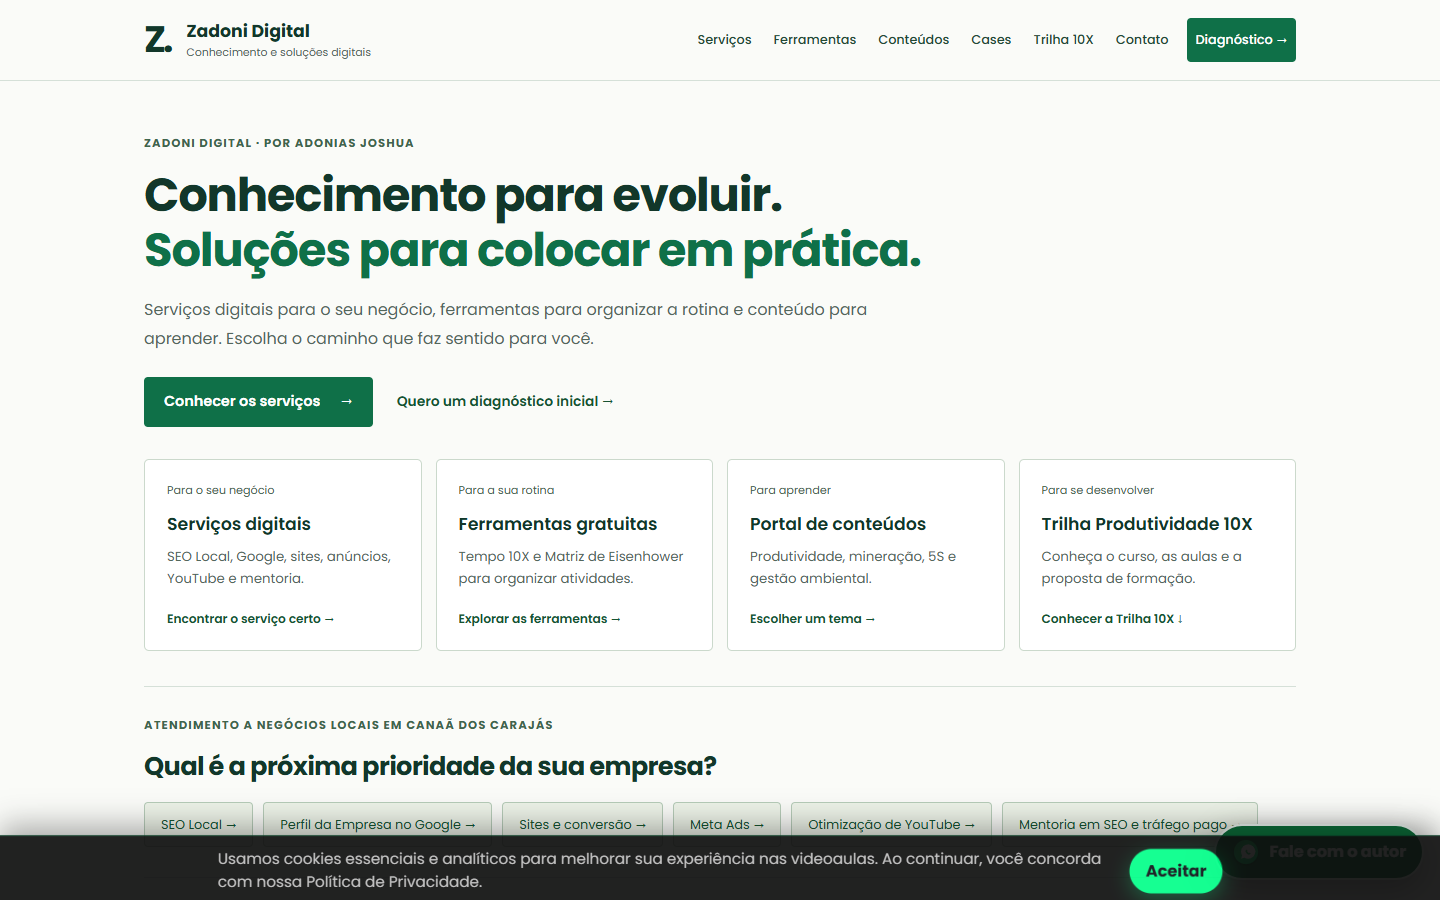
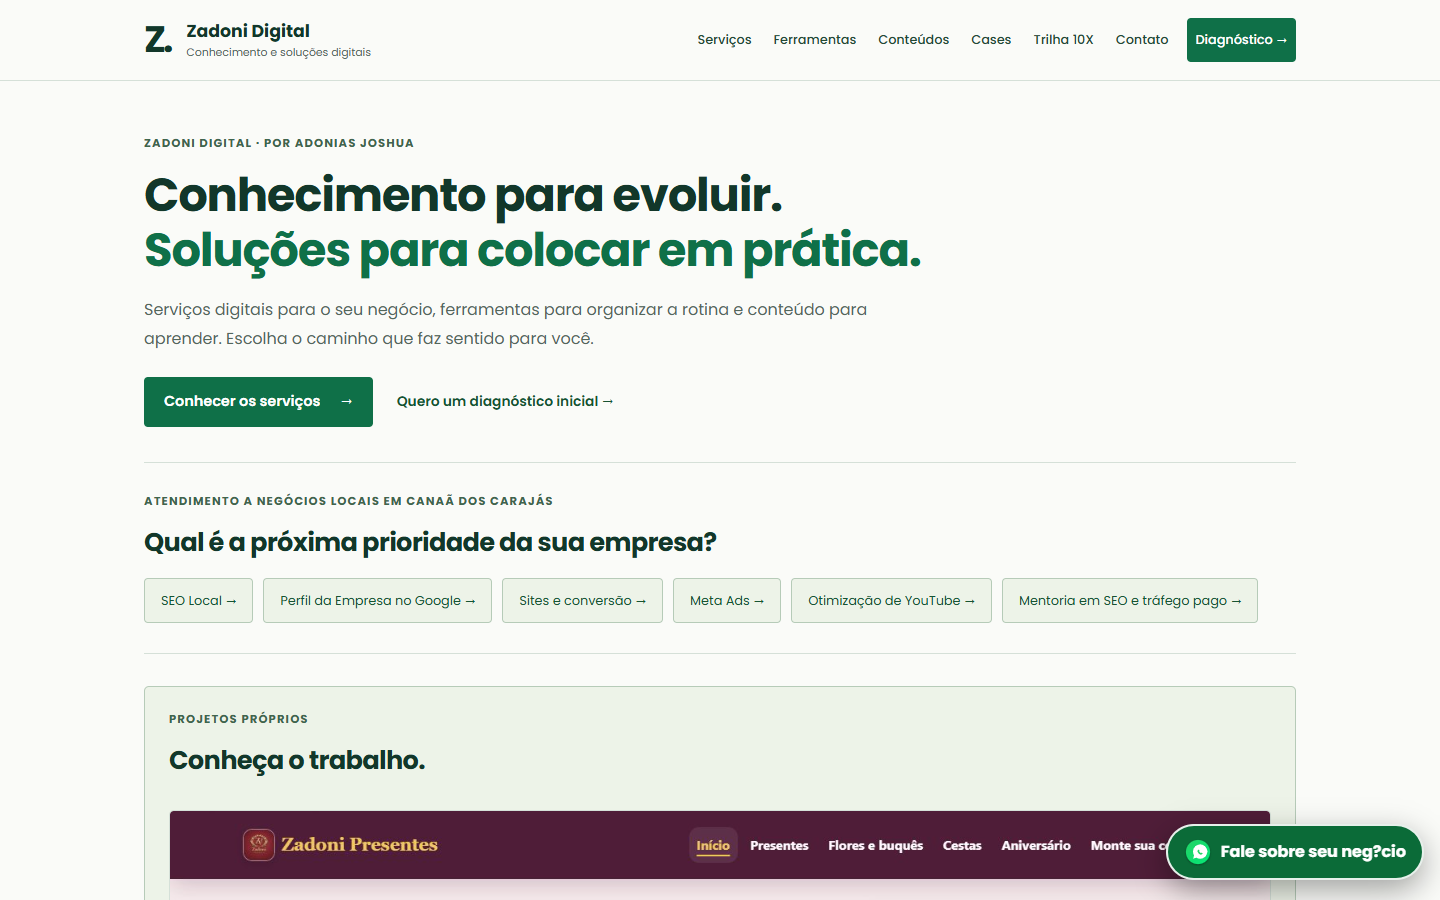
feat: prioritize local marketing conversion on home

diff --git a/index.html b/index.html
@@ -30,7 +30,7 @@
 
     <!-- Styles -->
     <link rel="stylesheet" href="./style.css" />
-    <link rel="stylesheet" href="./assets/css/home-portal.css" />
+    <link rel="stylesheet" href="./assets/css/home-portal.css?v=20260923-local" />
     <script src="./assets/js/home-portal.js" defer></script>
 
     <!-- Preload critical images for LCP (hero bg and logo) -->
@@ -75,20 +75,21 @@
             <p class="home-lead">Serviços digitais para o seu negócio, ferramentas para organizar a rotina e conteúdo para aprender. Escolha o caminho que faz sentido para você.</p>
             <div class="home-primary-actions"><a class="home-action" href="./servicos-digitais/">Conhecer os serviços <span aria-hidden="true">→</span></a><a class="home-text-link" href="./diagnostico-presenca-digital/">Quero um diagnóstico inicial →</a></div>
           </div>
-          <nav class="home-paths" aria-label="Escolha o que procura">
-            <a class="home-path" href="./servicos-digitais/"><span class="home-path-label">Para o seu negócio</span><h3>Serviços digitais</h3><p>SEO Local, Google, sites, anúncios, YouTube e mentoria.</p><span class="home-path-link">Encontrar o serviço certo →</span></a>
-            <a class="home-path" href="./ferramentas/"><span class="home-path-label">Para a sua rotina</span><h3>Ferramentas gratuitas</h3><p>Tempo 10X e Matriz de Eisenhower para organizar atividades.</p><span class="home-path-link">Explorar as ferramentas →</span></a>
-            <a class="home-path" href="./portal/"><span class="home-path-label">Para aprender</span><h3>Portal de conteúdos</h3><p>Produtividade, mineração, 5S e gestão ambiental.</p><span class="home-path-link">Escolher um tema →</span></a>
-            <a class="home-path" href="#hero"><span class="home-path-label">Para se desenvolver</span><h3>Trilha Produtividade 10X</h3><p>Conheça o curso, as aulas e a proposta de formação.</p><span class="home-path-link">Conhecer a Trilha 10X ↓</span></a>
-          </nav>
           <section class="home-service-access" aria-labelledby="home-services-title"><div><p class="home-eyebrow">Atendimento a negócios locais em Canaã dos Carajás</p><h2 id="home-services-title">Qual é a próxima prioridade da sua empresa?</h2></div><div class="home-service-links"><a href="./seo-local-canaa-dos-carajas/">SEO Local →</a><a href="./otimizacao-google-meu-negocio-canaa/">Perfil da Empresa no Google →</a><a href="./servicos-digitais/#sites">Sites e conversão →</a><a href="./meta-ads-negocios-locais-canaa/">Meta Ads →</a><a href="./otimizacao-canal-youtube/">Otimização de YouTube →</a><a href="./mentoria-seo-trafego-pago/">Mentoria em SEO e tráfego pago →</a></div></section>
+            <section class="home-feature" id="home-cases" aria-labelledby="home-cases-title"><p class="home-eyebrow">Projetos próprios</p><h2 id="home-cases-title">Conheça o trabalho.</h2><a class="home-case-link" href="./cases/zadoni-presentes/"><img src="./assets/images/zadoni-presentes-site.jpg" width="1360" height="840" loading="lazy" decoding="async" alt="Site da Zadoni Presentes: loja, produtos e categorias"><span><strong>Zadoni Presentes</strong><small>Site e presença digital de um negócio local.</small></span><span aria-hidden="true">→</span></a><a href="./cases/zadoni-digital/"><span><strong>Portal Zadoni Digital</strong><small>Conteúdo, ferramentas web e SEO.</small></span><span aria-hidden="true">→</span></a></section>
+          <p class="home-commercial-help">N?o sabe por onde come?ar? <a class="home-text-link" href="./diagnostico-presenca-digital/">Fa?a o diagn?stico inicial ?</a></p>
           <section class="home-author" aria-labelledby="home-author-title">
             <img src="./assets/images/adonias-joshua-apresentacao.jpeg" width="1086" height="1448" loading="lazy" decoding="async" alt="Adonias Joshua em ambiente de trabalho, usando colete de segurança" />
             <div><p class="home-eyebrow">Quem está por trás dos projetos</p><h2 id="home-author-title">Adonias Joshua</h2><p>Experiência de campo e desenvolvimento digital conectados em projetos próprios, ferramentas e conteúdo. Sou o criador da Zadoni Digital e responsável pelos trabalhos apresentados neste portal.</p><p>Minha trajetória em mineração, construção e meio ambiente faz parte da base dos conteúdos de produtividade, 5S e gestão ambiental.</p><div class="home-primary-actions"><a class="home-text-link" href="./sobre/">Conheça minha trajetória →</a><a class="home-text-link" href="./servicos-digitais/#contato">Conversar sobre seu projeto →</a></div></div>
           </section>
+          <section class="home-knowledge" aria-labelledby="home-knowledge-title"><p class="home-eyebrow">Conhecimento para aplicar</p><h2 id="home-knowledge-title">Aprenda, organize sua rotina e desenvolva suas habilidades.</h2><p>Explore os guias de produtividade, 5S, minera??o e meio ambiente, use as ferramentas e conhe?a a Trilha 10X.</p>          <nav class="home-paths" aria-label="Escolha o que procura">
+            <a class="home-path" href="./servicos-digitais/"><span class="home-path-label">Para o seu negócio</span><h3>Serviços digitais</h3><p>SEO Local, Google, sites, anúncios, YouTube e mentoria.</p><span class="home-path-link">Encontrar o serviço certo →</span></a>
+            <a class="home-path" href="./ferramentas/"><span class="home-path-label">Para a sua rotina</span><h3>Ferramentas gratuitas</h3><p>Tempo 10X e Matriz de Eisenhower para organizar atividades.</p><span class="home-path-link">Explorar as ferramentas →</span></a>
+            <a class="home-path" href="./portal/"><span class="home-path-label">Para aprender</span><h3>Portal de conteúdos</h3><p>Produtividade, mineração, 5S e gestão ambiental.</p><span class="home-path-link">Escolher um tema →</span></a>
+            <a class="home-path" href="#hero"><span class="home-path-label">Para se desenvolver</span><h3>Trilha Produtividade 10X</h3><p>Conheça o curso, as aulas e a proposta de formação.</p><span class="home-path-link">Conhecer a Trilha 10X ↓</span></a>
+          </nav><div class="home-service-links"><a href="./produtividade/">Produtividade</a><a href="./5s/">5S</a><a href="./mineracao/">Minera??o</a><a href="./gestao-ambiental/">Meio ambiente</a><a href="./marketing-local/melhorar-presenca-google-maps/">Marketing local</a></div></section>
           <div class="home-explore-grid">
             <section class="home-feature" aria-labelledby="home-tools-title"><p class="home-eyebrow">Da leitura à prática</p><h2 id="home-tools-title">Abra uma ferramenta.</h2><a class="home-case-link" href="./ferramentas/gestao-do-tempo/"><img src="./assets/images/tempo10x-interface.jpg" width="1360" height="840" loading="lazy" decoding="async" alt="Tempo 10X: formulario de nova atividade vazio"><span><strong>Tempo 10X</strong><small>Acompanhe tempo e atividades.</small></span><span aria-hidden="true">→</span></a><a class="home-case-link" href="./ferramentas/matriz-eisenhower/"><img src="./assets/images/matriz-eisenhower-interface.jpg" width="1360" height="840" loading="lazy" decoding="async" alt="Matriz de Eisenhower com quatro quadrantes e nenhuma tarefa cadastrada"><span><strong>Matriz de Eisenhower</strong><small>Organize tarefas por prioridade.</small></span><span aria-hidden="true">→</span></a></section>
-            <section class="home-feature" id="home-cases" aria-labelledby="home-cases-title"><p class="home-eyebrow">Projetos próprios</p><h2 id="home-cases-title">Conheça o trabalho.</h2><a class="home-case-link" href="./cases/zadoni-presentes/"><img src="./assets/images/zadoni-presentes-site.jpg" width="1360" height="840" loading="lazy" decoding="async" alt="Site da Zadoni Presentes: loja, produtos e categorias"><span><strong>Zadoni Presentes</strong><small>Site e presença digital de um negócio local.</small></span><span aria-hidden="true">→</span></a><a href="./cases/zadoni-digital/"><span><strong>Portal Zadoni Digital</strong><small>Conteúdo, ferramentas web e SEO.</small></span><span aria-hidden="true">→</span></a></section>
           </div>
           <p class="home-course-transition">Quer conhecer a formação? A Trilha Produtividade 10X começa logo abaixo. <a href="#hero">Ver o curso ↓</a></p>
         </div>
@@ -467,7 +468,7 @@
           <div class="footer-col">
             <h4 class="footer-title">Entre em Contato</h4>
             <p class="footer-contact">✉ <a href="mailto:adonias.joshua@gmail.com" class="footer-link">adonias.joshua@gmail.com</a></p>
-            <a class="footer-whats" href="https://wa.me/5594992993138?text=Ol%C3%A1!%20Vim%20do%20site%20Combo%2010X%20e%20preciso%20de%20ajuda." target="_blank" rel="noopener" aria-label="Falar no WhatsApp">Falar no WhatsApp</a>
+            <a class="footer-whats" href="https://wa.me/5594992993138?text=Ol%3F%2C%20Adonias!%20Vim%20da%20Zadoni%20Digital%20e%20quero%20conversar%20sobre%20marketing%20para%20meu%20neg%3Fcio." target="_blank" rel="noopener" aria-label="Falar no WhatsApp">Falar no WhatsApp</a>
           </div>
 
           <!-- Coluna 4 - Redes Sociais -->
@@ -483,7 +484,7 @@
               <a class="social-icon instagram" href="https://www.instagram.com/zadoni_criacoes?igsh=MWlxeXd5ZWFvYmxvNg==" target="_blank" rel="noopener" aria-label="Instagram">
                 <img src="./assets/icons/instagram.svg" alt="Instagram" width="20" height="20" />
               </a>
-              <a class="social-icon whatsapp" href="https://wa.me/5594992993138?text=Ol%C3%A1!%20Vim%20do%20site%20Combo%2010X%20e%20preciso%20de%20ajuda." target="_blank" rel="noopener" aria-label="WhatsApp">
+              <a class="social-icon whatsapp" href="https://wa.me/5594992993138?text=Ol%3F%2C%20Adonias!%20Vim%20da%20Zadoni%20Digital%20e%20quero%20conversar%20sobre%20marketing%20para%20meu%20neg%3Fcio." target="_blank" rel="noopener" aria-label="WhatsApp">
                 <img src="./assets/icons/whatsapp.svg" alt="WhatsApp" width="20" height="20" />
               </a>
             </div>
@@ -499,9 +500,9 @@
     </footer>
 
     <!-- Floating WhatsApp chat button -->
-    <a class="whatsapp-float" href="https://wa.me/5594992993138?text=Ol%C3%A1%2C%20Adonias!%20Vim%20do%20site%20Produtividade%2010X%20e%20gostaria%20de%20tirar%20uma%20d%C3%BAvida." target="_blank" rel="noopener noreferrer" aria-label="Falar diretamente com Adonias pelo WhatsApp">
+    <a class="whatsapp-float" href="https://wa.me/5594992993138?text=Ol%3F%2C%20Adonias!%20Vim%20da%20Zadoni%20Digital%20e%20quero%20conversar%20sobre%20marketing%20para%20meu%20neg%3Fcio." target="_blank" rel="noopener noreferrer" aria-label="Falar diretamente com Adonias pelo WhatsApp">
       <img src="./assets/icons/whatsapp.svg" alt="" aria-hidden="true" width="28" height="28" loading="lazy" />
-      <span class="whatsapp-float__label">Fale com o autor</span>
+      <span class="whatsapp-float__label">Fale sobre seu neg?cio</span>
     </a>
     <div class="whatsapp-tooltip" id="whatsTip" role="status" aria-live="polite">Precisa de ajuda? Fale no WhatsApp</div>
 

diff --git a/assets/css/home-portal.css b/assets/css/home-portal.css
@@ -93,3 +93,12 @@
   .home-service-links a { flex:1 1 135px; }
 }
 @media(prefers-reduced-motion:reduce) { .home-portal { scroll-behavior:auto; } }
+
+/* Prioridade comercial local, com acesso editorial preservado. */
+.home-discovery #home-cases { margin-top:32px; padding:24px; background:#edf3e8; border:1px solid #b6cbb8; border-radius:5px; }
+.home-knowledge { margin-top:32px; padding-block:28px; border-top:1px solid #d5e0d8; }
+.home-knowledge > p { color:#53675c; line-height:1.7; }
+.home-knowledge .home-service-links { margin-top:20px; }
+.home-discovery .home-explore-grid { grid-template-columns:1fr; }
+.home-commercial-help { line-height:1.8; }
+.home-discovery .home-commercial-help { color:#234935; }
